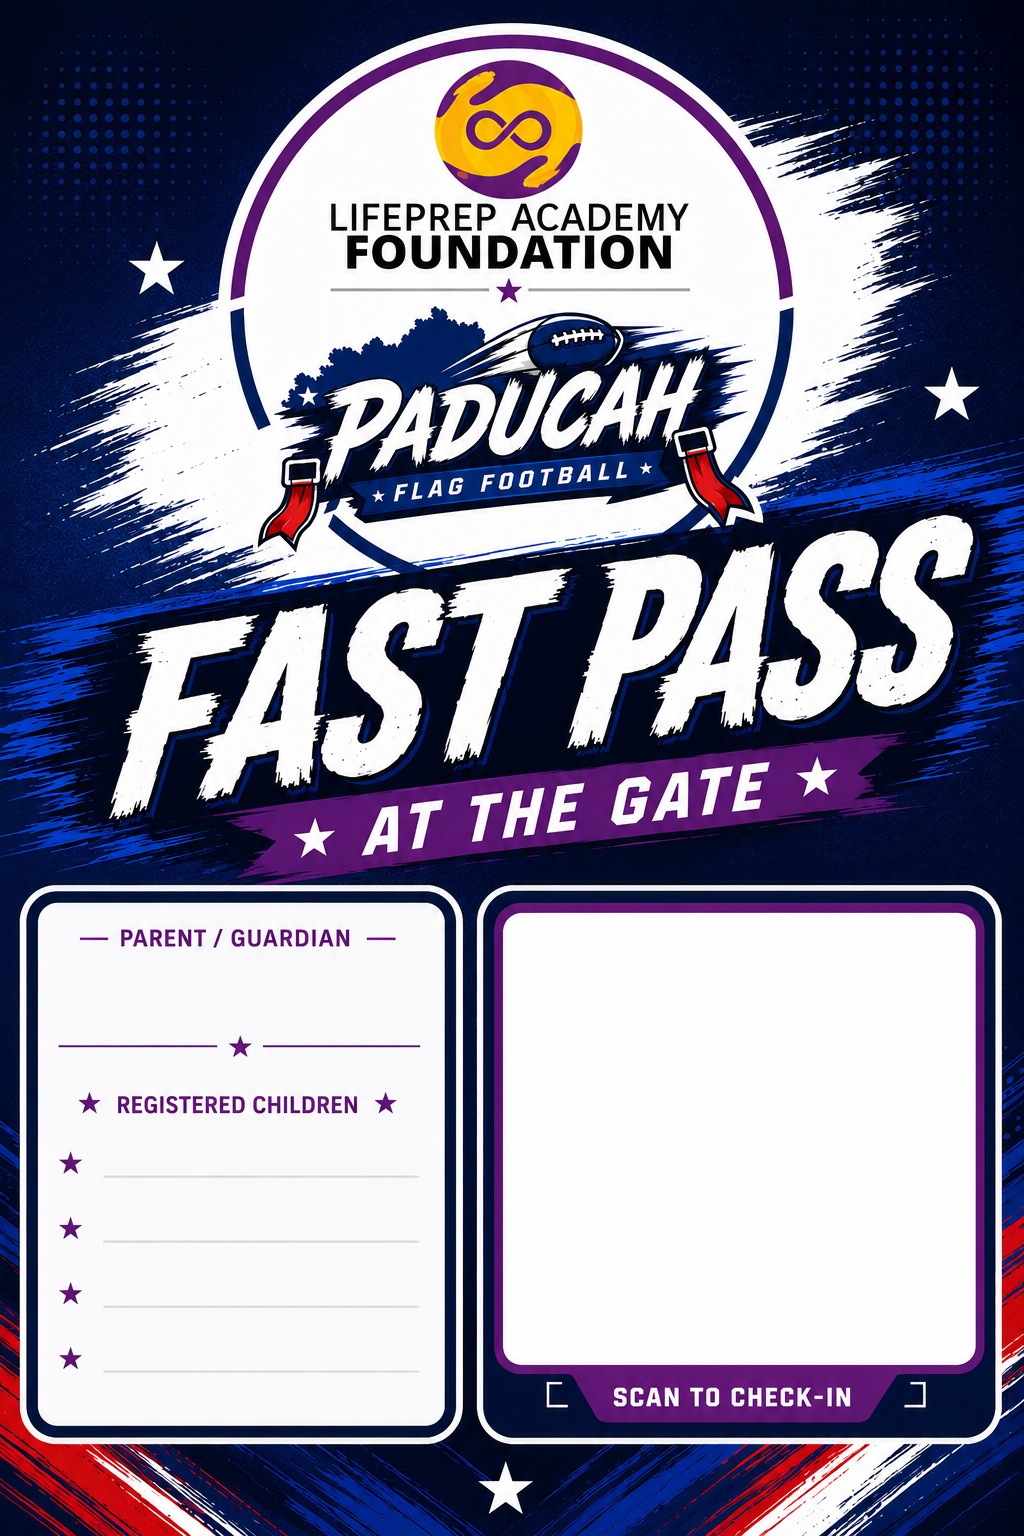
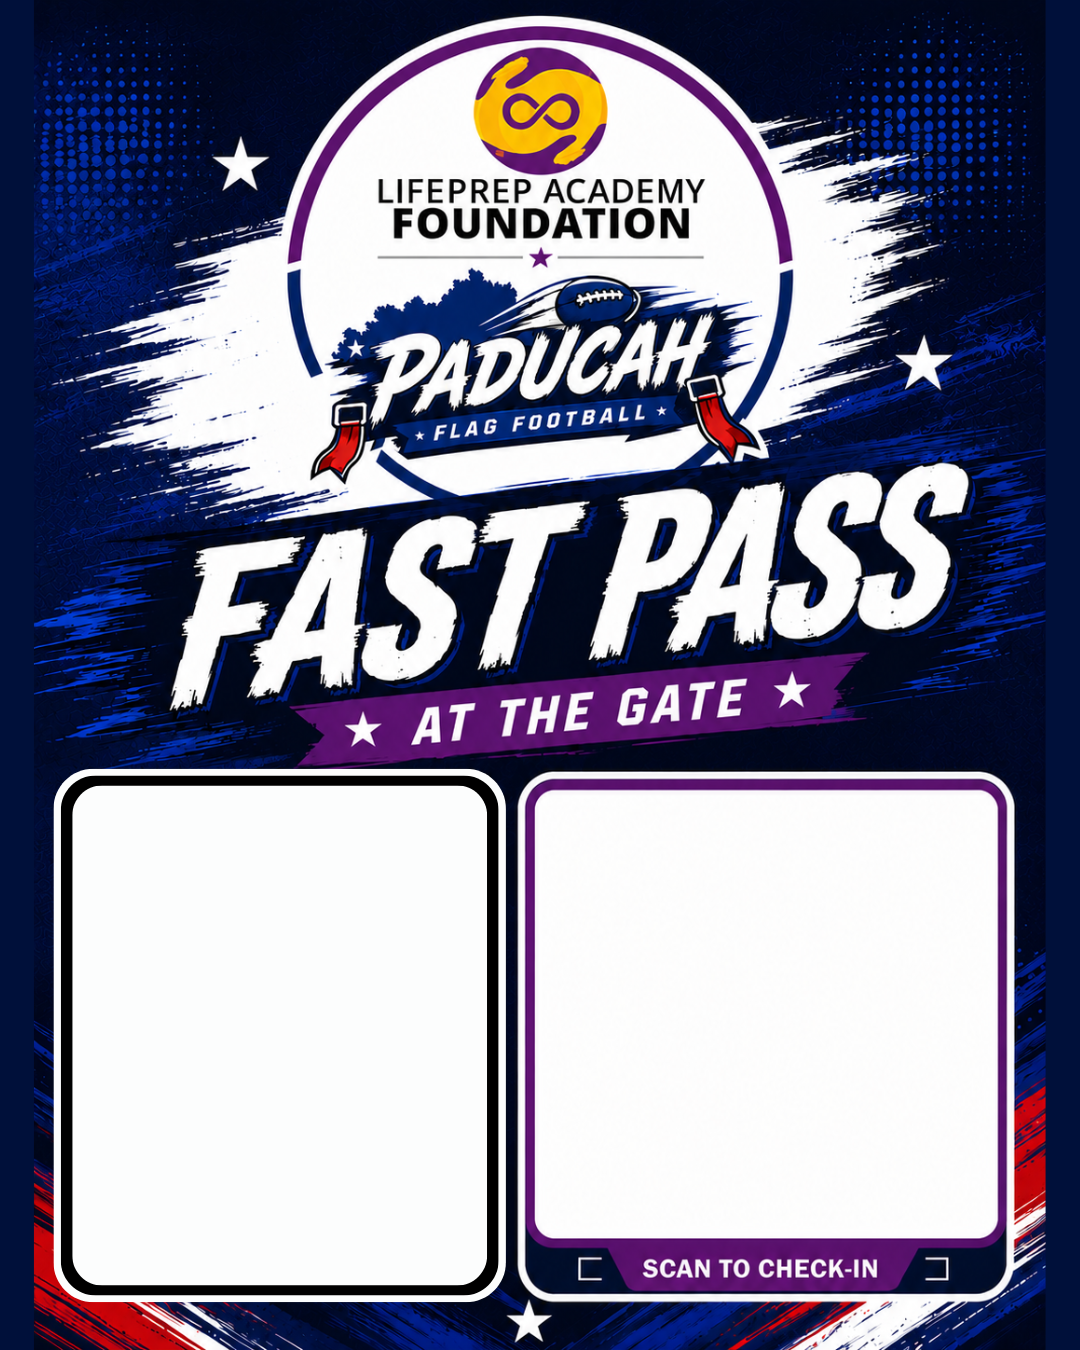
Update Fast Pass layout and styles for improved readability and aesthetics

diff --git a/checkin/app.js b/checkin/app.js
@@ -53,13 +53,13 @@
   const PASS_LAYOUT = {
     width: 1024,
     height: 1536,
-    leftX: 88,
-    leftY: 436,
-    leftWidth: 458,
-    leftHeight: 620,
-    qrX: 682,
-    qrY: 1047,
-    qrSize: 240
+    leftX: 90,
+    leftY: 815,
+    leftWidth: 380,
+    leftHeight: 410,
+    qrX: 550,
+    qrY: 795,
+    qrSize: 435
   };
 
   function showPanel(id) {
@@ -332,41 +332,41 @@
     ctx.textAlign = "left";
     ctx.textBaseline = "top";
 
-    ctx.font = "700 26px Arial, Helvetica, sans-serif";
-    ctx.fillText("PARENT / GUARDIAN", leftX, leftY);
+    ctx.font = "700 18px Arial, Helvetica, sans-serif";
+    ctx.fillText("PARENT / GUARDIAN", leftX + 90, leftY);
 
-    let parentFontSize = 52;
+    let parentFontSize = 32;
     const parentName = String(parent.parentName || "Parent / Guardian").trim();
     do {
-      ctx.font = `800 ${parentFontSize}px Arial, Helvetica, sans-serif`;
+      ctx.font = `700 ${parentFontSize}px Arial, Helvetica, sans-serif`;
       if (ctx.measureText(parentName).width <= maxWidth) break;
       parentFontSize -= 2;
-    } while (parentFontSize > 32);
+    } while (parentFontSize > 26);
     const parentNameLines = wrapLines(ctx, parentName, maxWidth).slice(0, 2);
 
-    let currentY = leftY + 46;
+    let currentY = leftY + 35;
     parentNameLines.forEach((line) => {
       ctx.fillText(line, leftX, currentY);
       currentY += parentFontSize + 8;
     });
 
     currentY += 20;
-    ctx.font = "700 26px Arial, Helvetica, sans-serif";
-    ctx.fillText("REGISTERED CHILDREN", leftX, currentY);
+    ctx.font = "700 18px Arial, Helvetica, sans-serif";
+    ctx.fillText("REGISTERED CHILDREN", leftX + 75, currentY);
     currentY += 42;
 
-    let childFontSize = 42;
+    let childFontSize = 28;
     let childLines = [];
-    while (childFontSize >= 26) {
-      ctx.font = `800 ${childFontSize}px Arial, Helvetica, sans-serif`;
+    while (childFontSize >= 18) {
+      ctx.font = `700 ${childFontSize}px Arial, Helvetica, sans-serif`;
       childLines = formatChildBlocks(ctx, names.length ? names : [parent.childNames || "Registration on file"], maxWidth, 8);
       const lineHeight = childFontSize + 10;
       if (childLines.length * lineHeight <= PASS_LAYOUT.leftHeight - (currentY - leftY)) break;
       childFontSize -= 2;
     }
 
-    ctx.font = `800 ${childFontSize}px Arial, Helvetica, sans-serif`;
-    const childLineHeight = childFontSize + 10;
+    ctx.font = `700 ${childFontSize}px Arial, Helvetica, sans-serif`;
+    const childLineHeight = childFontSize + 25;
     childLines.forEach((line) => {
       ctx.fillText(line, leftX, currentY);
       currentY += childLineHeight;
